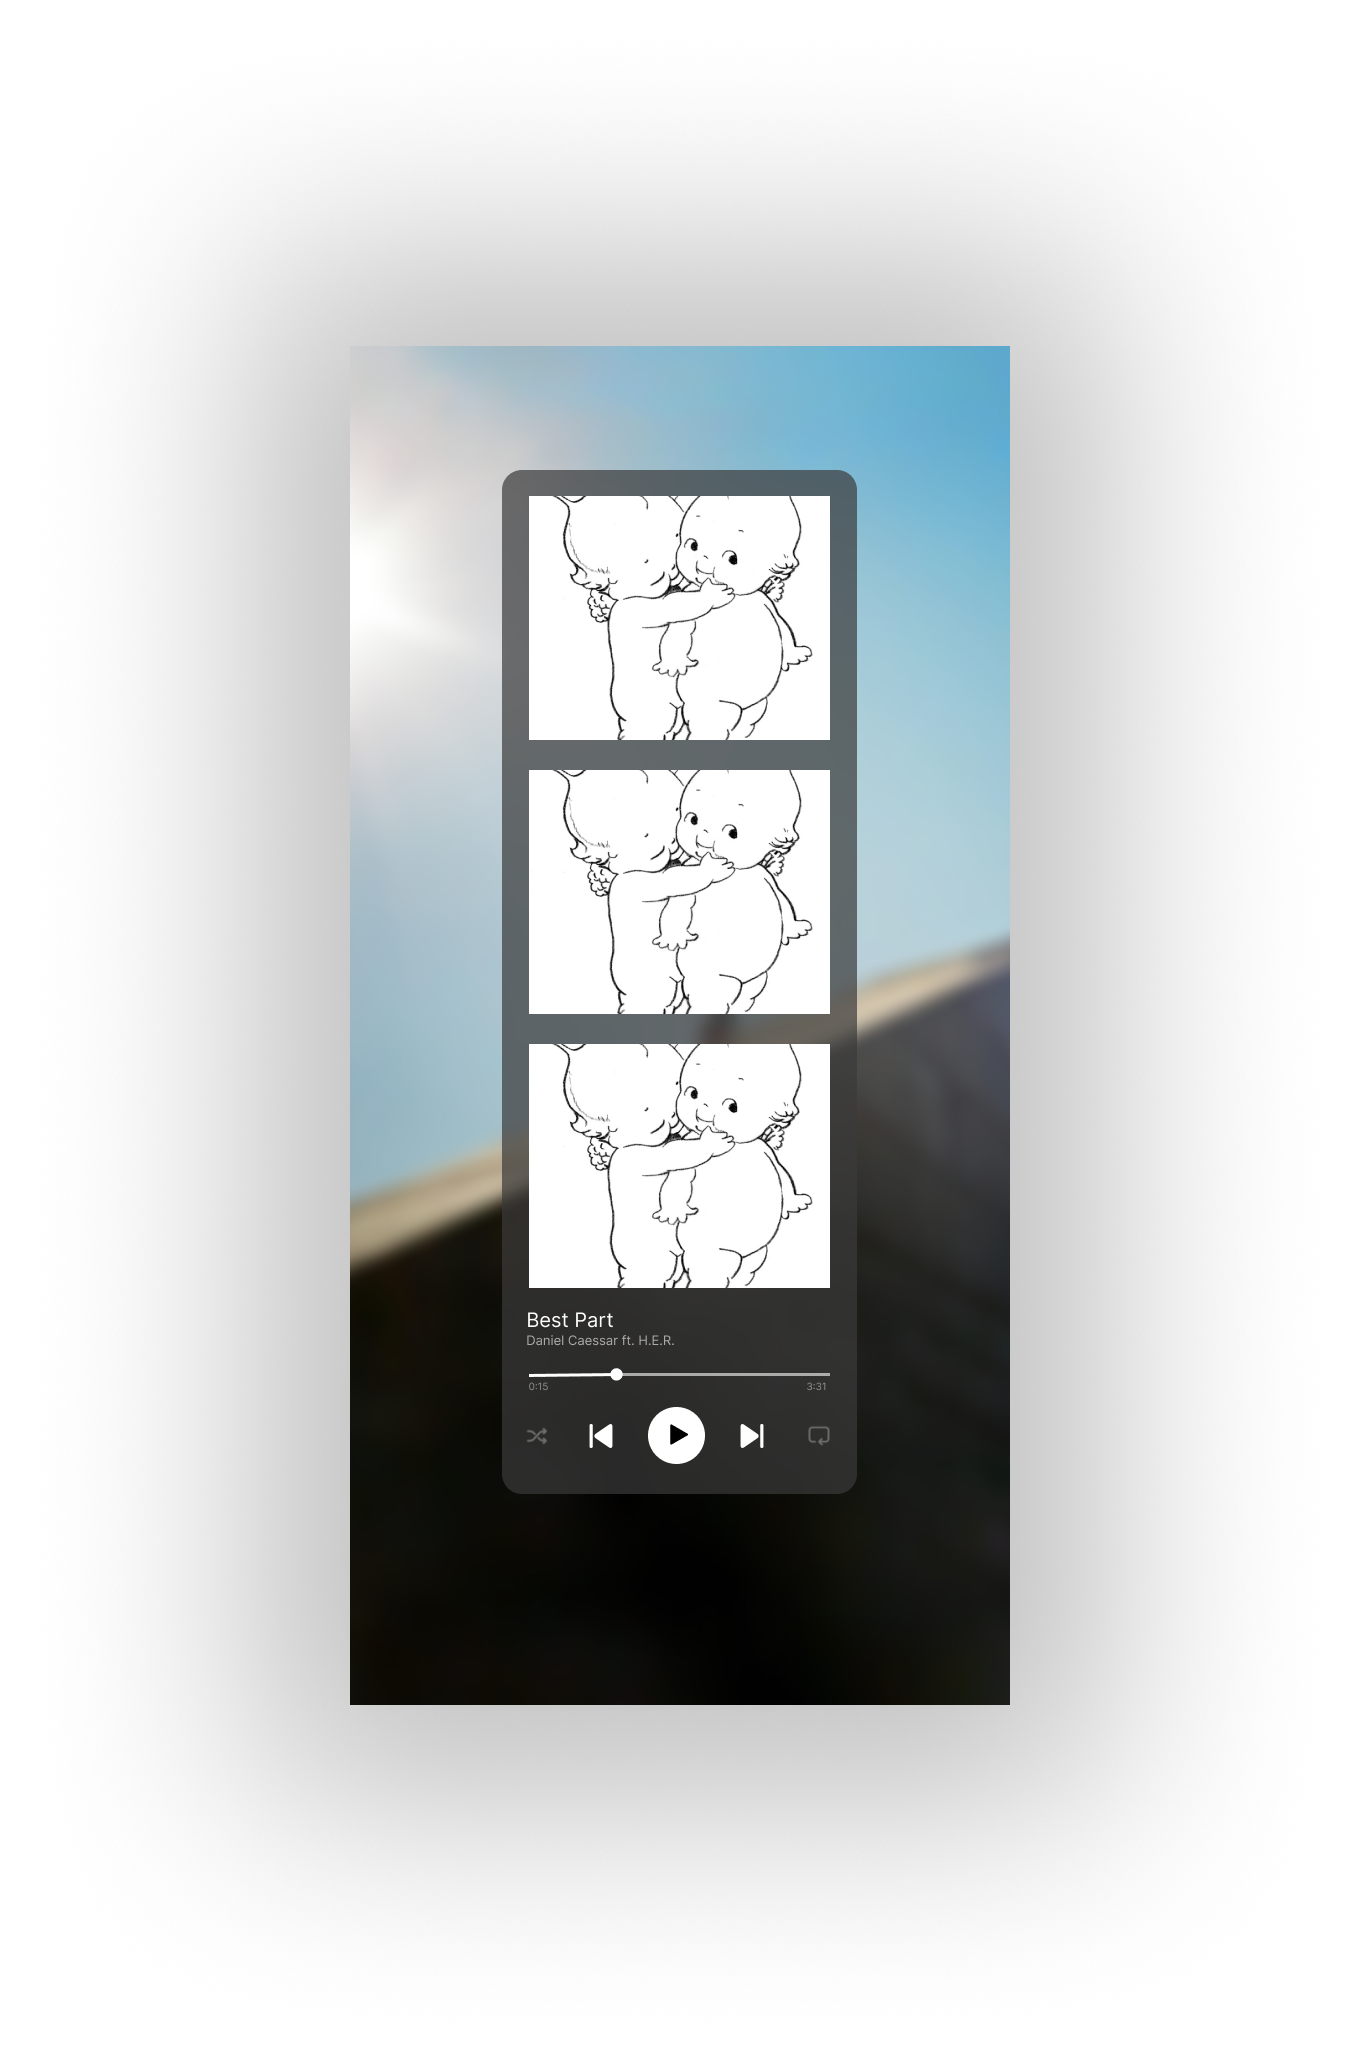
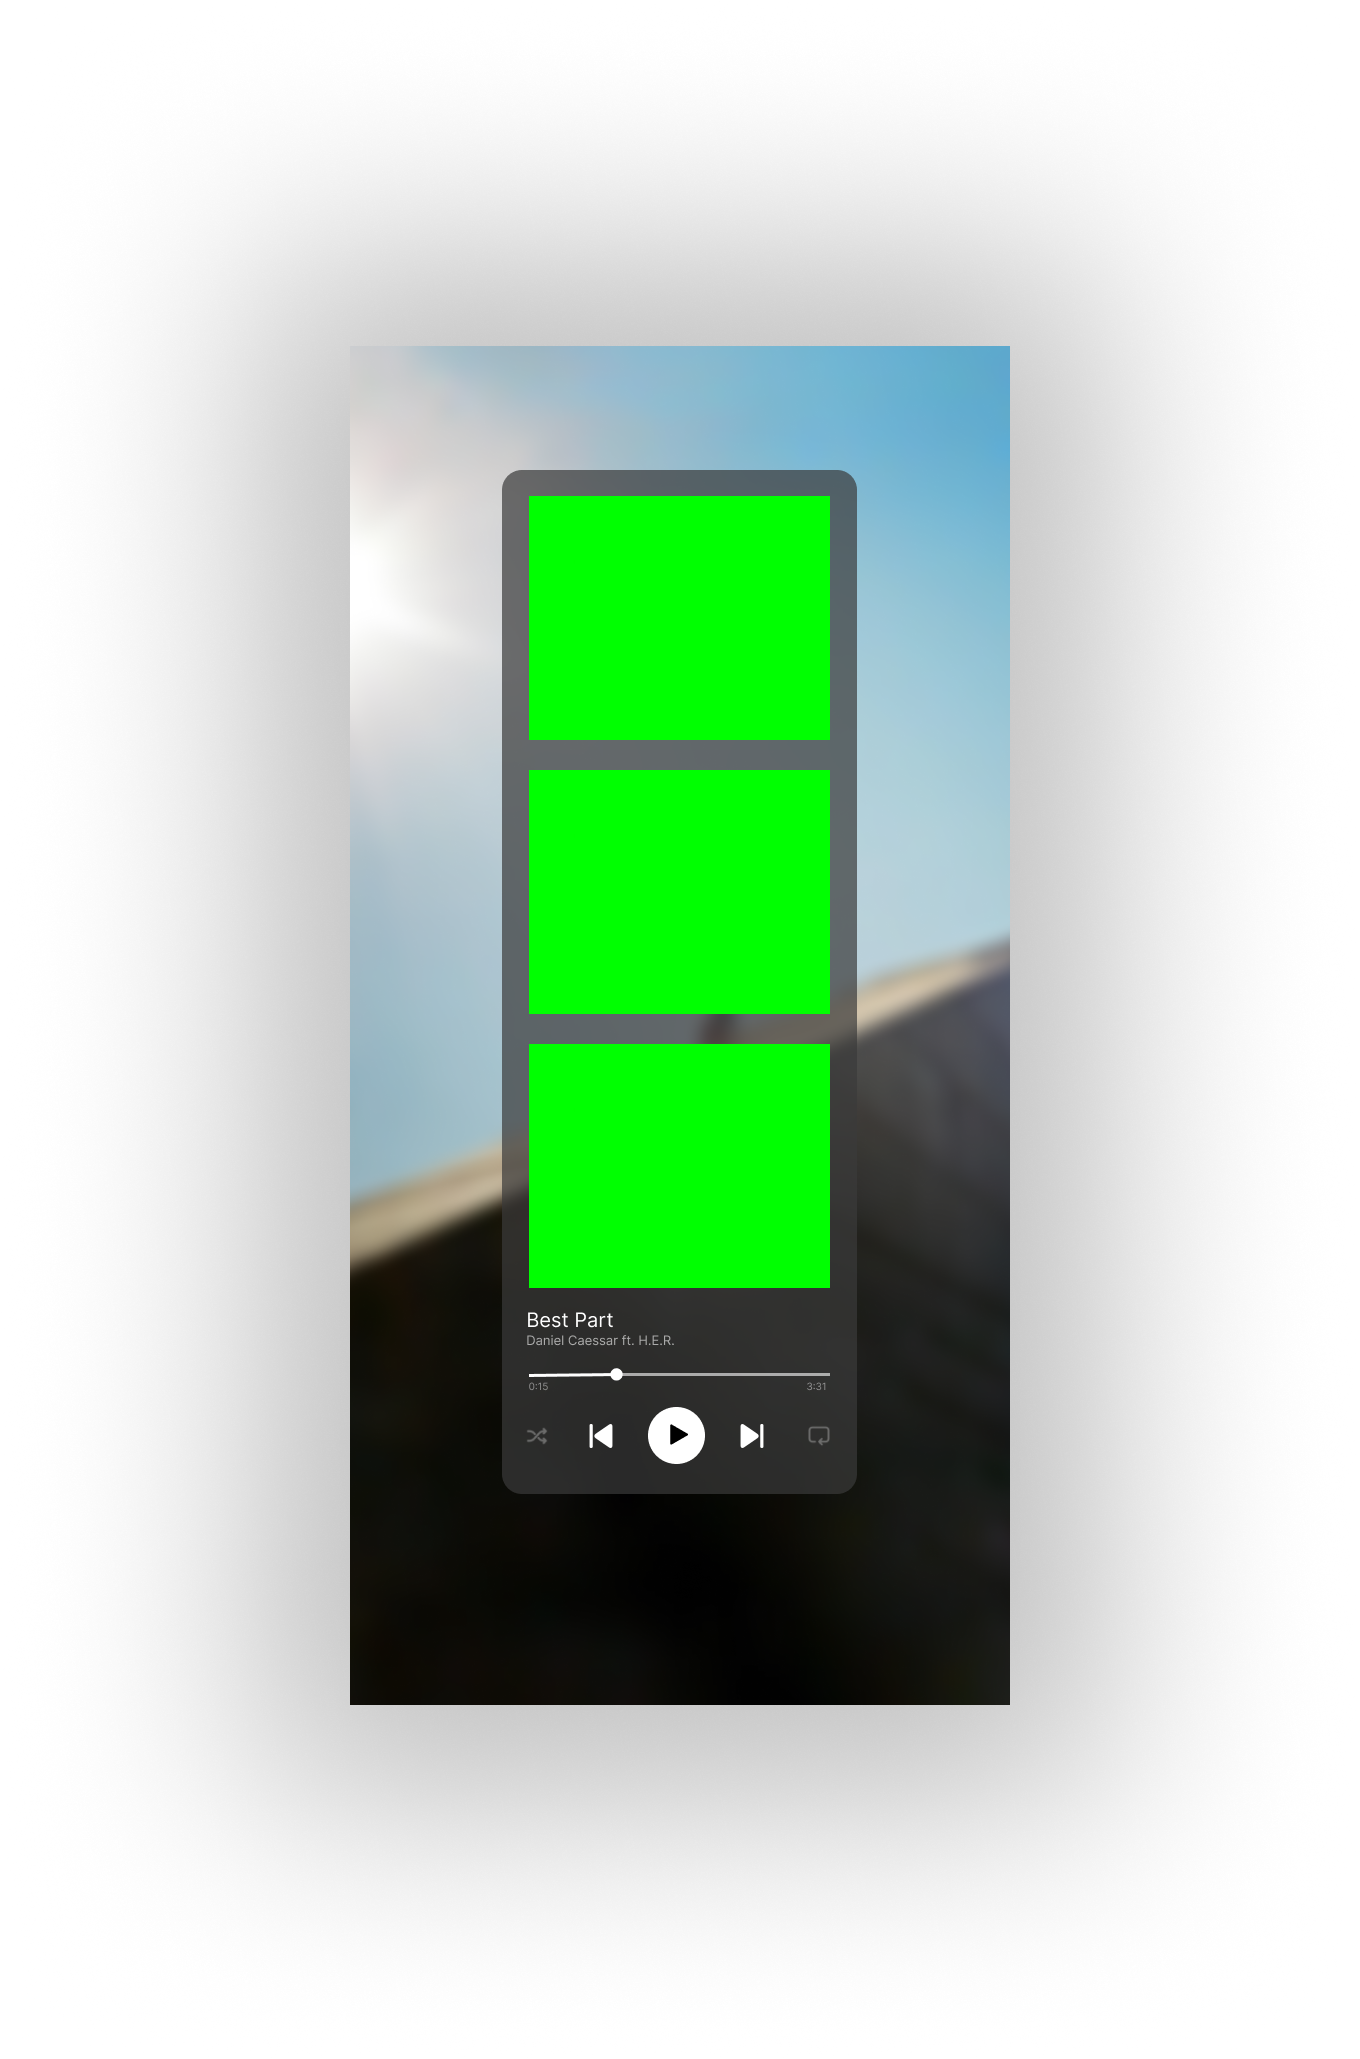
gagal terus ajg

Changed region(s): [[0.3706, 0.2176, 0.6176, 0.6527]]

diff --git a/src/utils/canvasHelpers.js b/src/utils/canvasHelpers.js
@@ -83,17 +83,25 @@ export const calculateLayout = (layoutType, images, canvasWidth = 800, canvasHei
  * Calculate layout for music player frame (3 photos in specific positions)
  */
 export const calculateMusicPlayerLayout = (images, canvasWidth = 400, canvasHeight = 800) => {
-  // Music player frame specific dimensions based on your design
+  // Debug logging
+  console.log('Music Player Layout Debug:')
+  console.log('Canvas size:', canvasWidth, 'x', canvasHeight)
+  
+  // Music player frame specific dimensions
   const frameWidth = canvasWidth
   const frameHeight = canvasHeight
   
-  // Photo positions based on your music player design (Frame-2.png)
-  // These coordinates should match the white areas in your frame design
-  const photoWidth = 140   // Width of each photo slot (adjusted for your design)
-  const photoHeight = 105  // Height of each photo slot (adjusted for your design)
-  const startX = 130       // X position where photos start (centered in frame)
-  const startY = 240       // Y position where first photo starts (below the top section)
-  const photoSpacing = 125 // Vertical spacing between photos (adjusted for your layout)
+  // Fixed coordinates to place photos INSIDE the green boxes
+  // Based on the image, green boxes are inside the music player frame
+  const startX = 275                              // X position inside the frame (not scaled)
+  const startY = 250                              // Y position of first green box
+  const photoWidth = 120                          // Width to fit inside green box
+  const photoHeight = 100                         // Height to fit inside green box
+  const photoSpacing = 130                        // Vertical spacing between green boxes
+  
+  console.log('Photo dimensions:', photoWidth, 'x', photoHeight)
+  console.log('Start position:', startX, ',', startY)
+  console.log('Photo spacing:', photoSpacing)
   
   const layout = {
     canvasWidth: frameWidth,
@@ -105,12 +113,14 @@ export const calculateMusicPlayerLayout = (images, canvasWidth = 400, canvasHeig
   
   // Position 3 photos vertically in the music player frame
   for (let i = 0; i < Math.min(3, images.length); i++) {
-    layout.positions.push({
+    const position = {
       x: startX,
       y: startY + (i * photoSpacing),
       width: photoWidth,
       height: photoHeight
-    })
+    }
+    console.log(`Photo ${i + 1} position:`, position)
+    layout.positions.push(position)
   }
   
   return layout

diff --git a/src/composables/usePhotoLayout.js b/src/composables/usePhotoLayout.js
@@ -52,17 +52,7 @@ export function usePhotoLayout() {
       ctx.fillStyle = bgColor
       ctx.fillRect(0, 0, canvas.width, canvas.height)
 
-      // Draw frame border if needed (NO FILTER)
-      if (frameStyle !== 'none') {
-        if (frameStyle === 'music') {
-          // For music frame, draw the frame overlay after all photos
-          await drawFrameBorder(ctx, canvas.width, canvas.height, frameStyle)
-        } else {
-          drawFrameBorder(ctx, canvas.width, canvas.height, frameStyle)
-        }
-      }
-
-      // Draw images with filter
+      // Draw images with filter FIRST
       loadedImages.forEach((img, index) => {
         if (layout.positions[index]) {
           const pos = layout.positions[index]
@@ -74,12 +64,22 @@ export function usePhotoLayout() {
           // Reset filter immediately after drawing image
           ctx.filter = 'none'
           
-          // Add frame around each image if needed (NO FILTER)
-          if (frameStyle !== 'none') {
+          // Add frame around each image if needed (NO FILTER) - but not for music frame
+          if (frameStyle !== 'none' && frameStyle !== 'music') {
             drawImageFrame(ctx, pos, frameStyle)
           }
         }
       })
+
+      // Draw frame border/overlay AFTER photos (NO FILTER)
+      if (frameStyle !== 'none') {
+        if (frameStyle === 'music') {
+          // For music frame, draw the frame overlay AFTER all photos
+          await drawFrameBorder(ctx, canvas.width, canvas.height, frameStyle)
+        } else {
+          drawFrameBorder(ctx, canvas.width, canvas.height, frameStyle)
+        }
+      }
 
       // Add timestamp and title (NO FILTER)
       ctx.filter = 'none'
